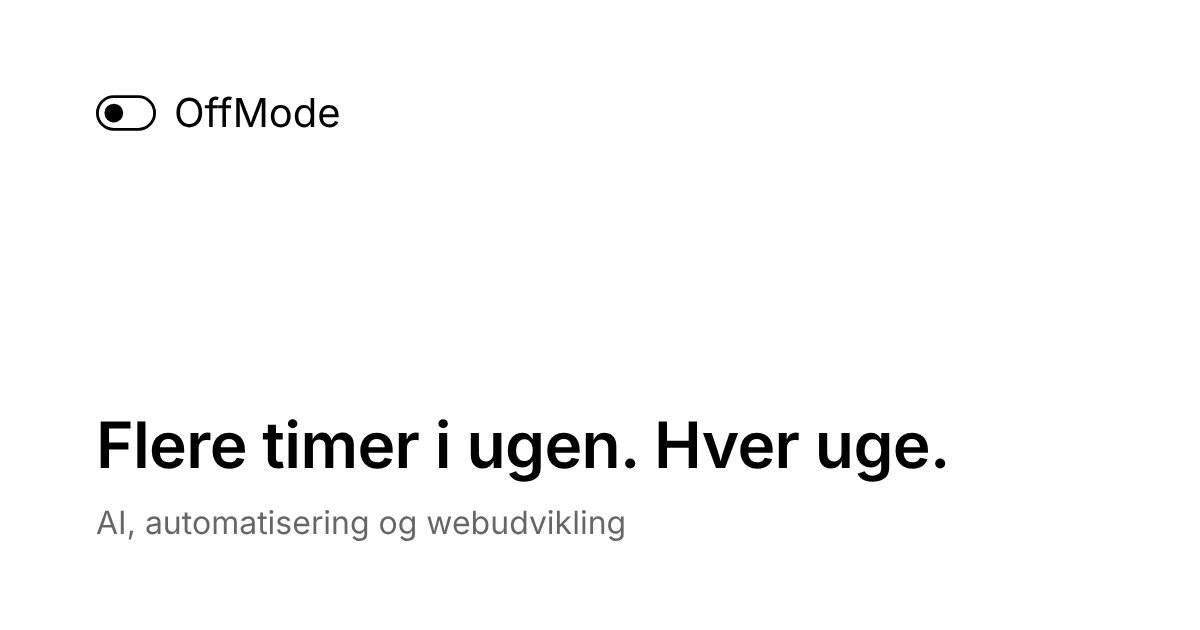
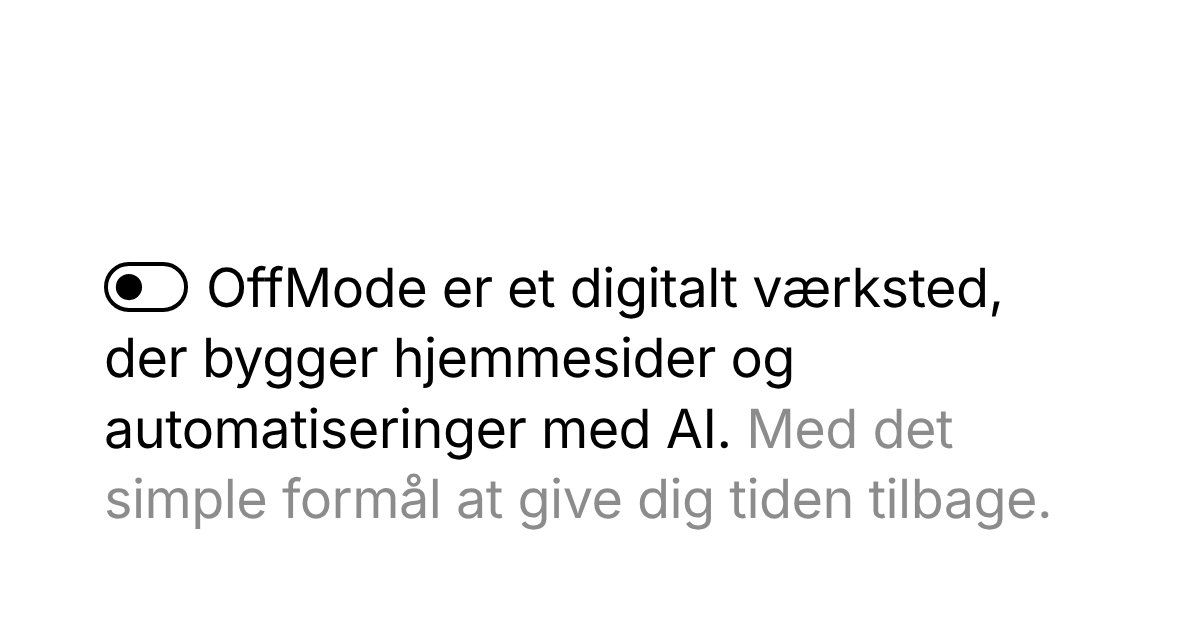
Title, share title and share image follow the new intro
Claude-Session: https://claude.ai/code/session_01JQ91VV55D3t8mimoyPje74

Changed region(s): [[0.0617, 0.5429, 0.8633, 0.8746], [0.0617, 0.3921, 0.8325, 0.5127], [0.0617, 0.1508, 0.2775, 0.2111]]

diff --git a/index.html b/index.html
@@ -3,18 +3,18 @@
 <head>
 <meta charset="utf-8">
 <meta name="viewport" content="width=device-width, initial-scale=1">
-<title>OffMode – AI, automatisering og webudvikling</title>
+<title>OffMode – Hjemmesider og automatiseringer med AI</title>
 <meta name="description" content="OffMode er et digitalt værksted, der bygger hjemmesider og automatiseringer med AI. Med det simple formål at give dig tiden tilbage.">
 <meta property="og:type" content="website">
 <meta property="og:site_name" content="OffMode">
 <meta property="og:locale" content="da_DK">
 <meta property="og:url" content="https://offmode.co/">
-<meta property="og:title" content="OffMode – Flere timer i ugen. Hver uge.">
+<meta property="og:title" content="OffMode – Hjemmesider og automatiseringer med AI">
 <meta property="og:description" content="OffMode er et digitalt værksted, der bygger hjemmesider og automatiseringer med AI. Med det simple formål at give dig tiden tilbage.">
 <meta property="og:image" content="https://offmode.co/og.png">
 <meta property="og:image:width" content="1200">
 <meta property="og:image:height" content="630">
-<meta property="og:image:alt" content="OffMode – Flere timer i ugen. Hver uge.">
+<meta property="og:image:alt" content="OffMode er et digitalt værksted, der bygger hjemmesider og automatiseringer med AI.">
 <meta name="twitter:card" content="summary_large_image">
 <link rel="icon" href="favicon.svg" type="image/svg+xml">
 <link rel="icon" href="favicon.png" type="image/png" sizes="64x64">
